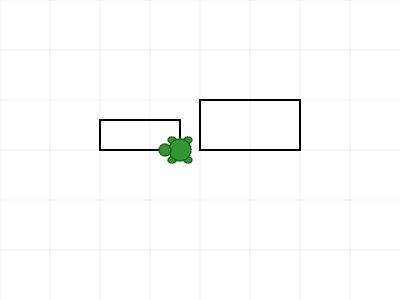
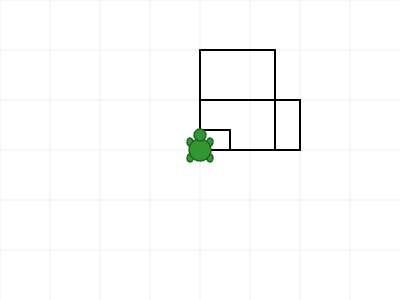
Improved sections using turtle testing

Changed region(s): [[0.24, 0.39, 0.6, 0.57], [0.48, 0.15, 0.69, 0.48]]

diff --git a/src/assets/data/04_functions_advanced/lessons/02_func_turtle_inputs.ts b/src/assets/data/04_functions_advanced/lessons/02_func_turtle_inputs.ts
@@ -114,20 +114,20 @@ const lessonData: Lesson = {
         {
           kind: "text",
           value:
-            "Create a function called `draw_rectangle(width, height)` that draws a rectangle with the given width and height.\n\nThen use your function to draw:\n1. A rectangle that's 100 pixels wide and 50 pixels tall\n2. A rectangle that's 30 pixels wide and 80 pixels tall\n\nHint: A rectangle has two sides of one length and two sides of another length.",
+            "Create a function called `draw_rectangle(width, height)` that draws a rectangle with the given width and height.\n\nThen use your function to draw:\n1. A rectangle that's 100 pixels wide and 50 pixels tall\n2. A rectangle that's 30 pixels wide and 20 pixels tall\n3. A rectangle that's 75 pixels wide and 100 pixels tall\n\nHint: Since the turtle is facing up, our should move `height` first.",
         },
       ],
       example: {
         visualization: "turtle",
         initialCode:
-          "import turtle\n\ndef draw_rectangle(width, height):\n  # Your code here\n  pass\n\n# Test your function\ndraw_rectangle(100, 50)\nturtle.penup()\nturtle.forward(120)\nturtle.pendown()\ndraw_rectangle(30, 80)",
+          "import turtle\n\ndef draw_rectangle(width, height):\n  # Your code here\n  pass\n\n# Test your function\ndraw_rectangle(100, 50)\ndraw_rectangle(30, 20)\ndraw_rectangle(75, 100)",
       },
       testMode: "procedure",
-      functionToTest: "draw_rectangle",
+      functionToTest: "__main__",
       visualThreshold: 0.999,
       testCases: [
         {
-          description: "Two rectangles",
+          description: "Three rectangles",
           input: [],
           expected: null,
           referenceImage: "images/turtle_rectangles.png",
@@ -136,7 +136,7 @@ const lessonData: Lesson = {
     } as TestingSectionData,
     {
       kind: "PRIMM",
-      id: "house-parts-primm" as SectionId,
+      id: "house-parts-pimm" as SectionId,
       title: "Building House Parts",
       content: [
         {
@@ -148,7 +148,7 @@ const lessonData: Lesson = {
       example: {
         visualization: "turtle",
         initialCode:
-          'import turtle\n\ndef draw_rectangle(width, height):\n  turtle.forward(width)\n  turtle.right(90)\n  turtle.forward(height)\n  turtle.right(90)\n  turtle.forward(width)\n  turtle.right(90)\n  turtle.forward(height)\n  turtle.right(90)\n\ndef draw_door(width, height, color):\n  turtle.color(color)\n  draw_rectangle(width, height)\n  turtle.color("black")  # Reset color\n\n# Draw a door\ndraw_door(30, 60, "brown")\n\n# Move and draw a window\nt.penup()\nt.goto(60, 0)\nt.pendown()\ndraw_rectangle(40, 40)',
+          'import turtle\n\ndef draw_rectangle(width, height):\n  turtle.forward(width)\n  turtle.right(90)\n  turtle.forward(height)\n  turtle.right(90)\n  turtle.forward(width)\n  turtle.right(90)\n  turtle.forward(height)\n  turtle.right(90)\n\ndef draw_door(width, height, color):\n  turtle.color(color)\n  draw_rectangle(width, height)\n  turtle.color("black")  # Reset color\n\n# Draw a door\ndraw_door(30, 60, "brown")\n\n# Move and draw a window\nturtle.penup()\nturtle.goto(60, 0)\nturtle.pendown()\ndraw_rectangle(40, 40)',
       },
       predictPrompt:
         "What two shapes will be drawn? What will be different about them?",
@@ -177,9 +177,15 @@ const lessonData: Lesson = {
       testCases: [
         {
           description: "House with side length of 50",
-          input: [],
+          input: [50],
           expected: null,
-          referenceImage: "images/turtle_house.png",
+          referenceImage: "images/turtle_house_50.png",
+        },
+        {
+          description: "House with side length of 75",
+          input: [75],
+          expected: null,
+          referenceImage: "images/turtle_house_75.png",
         },
       ],
     } as TestingSectionData,

diff --git a/src/assets/data/06_loops/lessons/01_loops_challenges.ts b/src/assets/data/06_loops/lessons/01_loops_challenges.ts
@@ -74,14 +74,14 @@ const lessonData: Lesson = {
           "import turtle\n\n# Create make_hexagon() function here\n\n\n# Call your function\n",
       },
       testMode: "procedure",
-      functionToTest: "__main__",
+      functionToTest: "make_hexagon",
       visualThreshold: 0.999,
       testCases: [
         {
           description: "Hexagon with side length 50",
           input: [],
           expected: null,
-          referenceImage: "images/turtle_hexagon.png",
+          referenceImage: "images/turtle_hexagon_50.png",
         },
       ],
     } as TestingSectionData,
@@ -102,20 +102,20 @@ const lessonData: Lesson = {
           "import turtle\n\n# Create make_octagon(size) function here\n\n\n# Call your function with size 55\n",
       },
       testMode: "procedure",
-      functionToTest: "__main__",
+      functionToTest: "make_octagon",
       visualThreshold: 0.999,
       testCases: [
         {
           description: "Octagon with side length 55",
-          input: [],
+          input: [55],
           expected: null,
           referenceImage: "images/turtle_octagon_55.png",
         },
         {
-          description: "Octagon with side length 10",
-          input: [],
+          description: "Octagon with side length 20",
+          input: [20],
           expected: null,
-          referenceImage: "images/turtle_octagon_10.png",
+          referenceImage: "images/turtle_octagon_20.png",
         },
       ],
     } as TestingSectionData,
@@ -140,20 +140,20 @@ const lessonData: Lesson = {
           "import turtle\n\n# Create make_star(size) function here\n\n\n# Call your function with size 55\n",
       },
       testMode: "procedure",
-      functionToTest: "__main__",
+      functionToTest: "make_star",
       visualThreshold: 0.999,
       testCases: [
         {
           description: "Star with side length 55",
-          input: [],
+          input: [55],
           expected: null,
           referenceImage: "images/turtle_star_55.png",
         },
         {
-          description: "Star with side length 10",
-          input: [],
+          description: "Star with side length 150",
+          input: [150],
           expected: null,
-          referenceImage: "images/turtle_star_10.png",
+          referenceImage: "images/turtle_star_150.png",
         },
       ],
     } as TestingSectionData,

diff --git a/src/assets/data/06_loops/lessons/00_loops_intro.ts b/src/assets/data/06_loops/lessons/00_loops_intro.ts
@@ -141,10 +141,10 @@ const lessonData: Lesson = {
       visualThreshold: 0.999,
       testCases: [
         {
-          description: "Pentagon with side length 100",
+          description: "Pentagon with side length 80",
           input: [],
           expected: null,
-          referenceImage: "images/turtle_pentagon.png",
+          referenceImage: "images/turtle_pentagon_80.png",
         },
       ],
     } as TestingSectionData,

diff --git a/src/assets/data/04_functions_advanced/lessons/01_func_turtles.ts b/src/assets/data/04_functions_advanced/lessons/01_func_turtles.ts
@@ -139,7 +139,7 @@ const lessonData: Lesson = {
           "import turtle\n\ndef make_triangle():\n  # Each side should be 100 pixels\n\nmake_triangle()",
       },
       testMode: "procedure",
-      functionToTest: "__main__",
+      functionToTest: "make_triangle",
       visualThreshold: 0.999,
       testCases: [
         {
